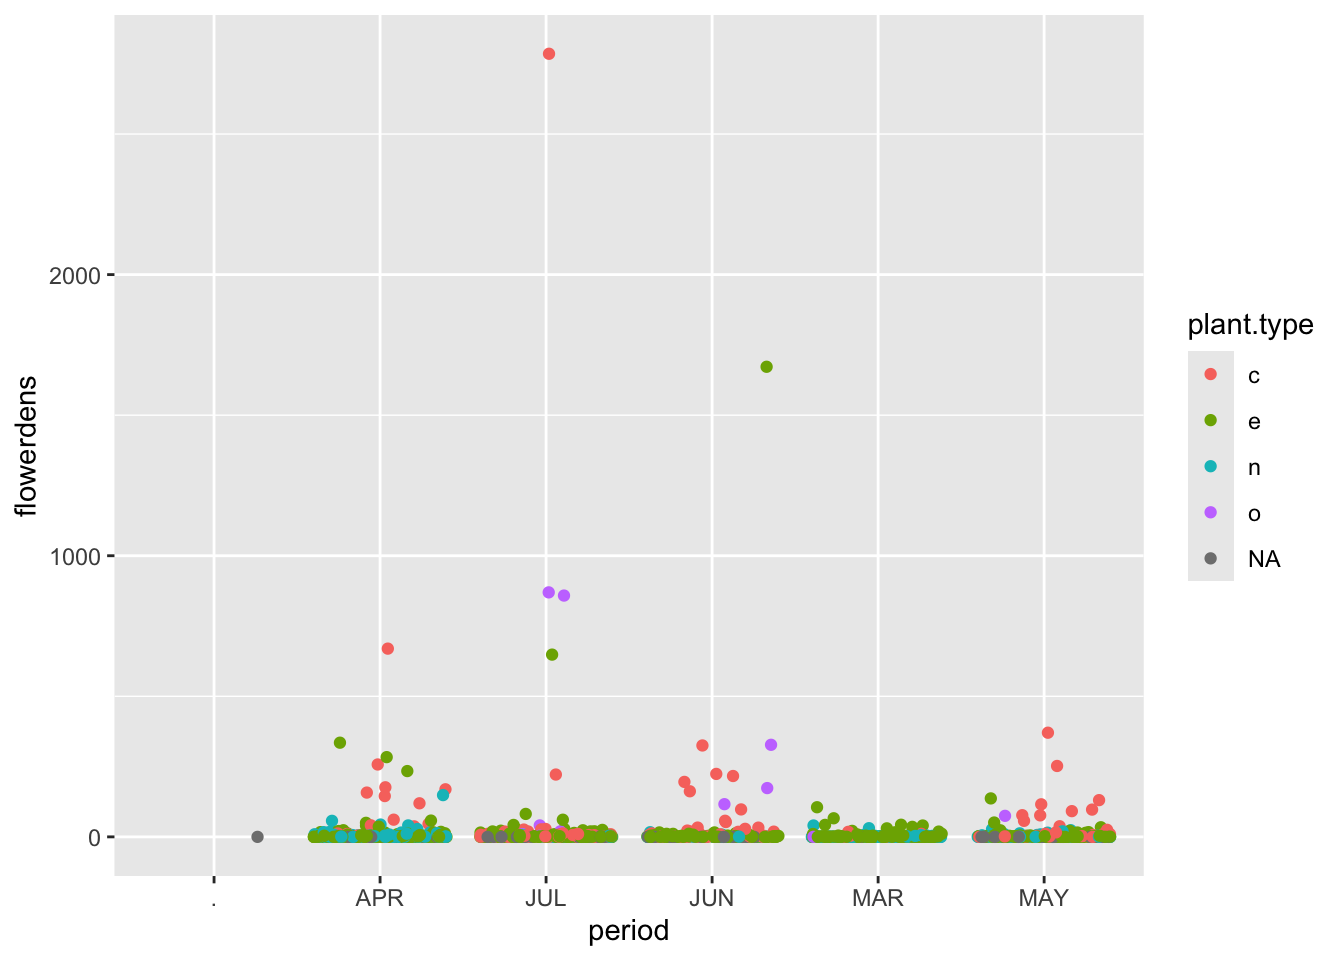
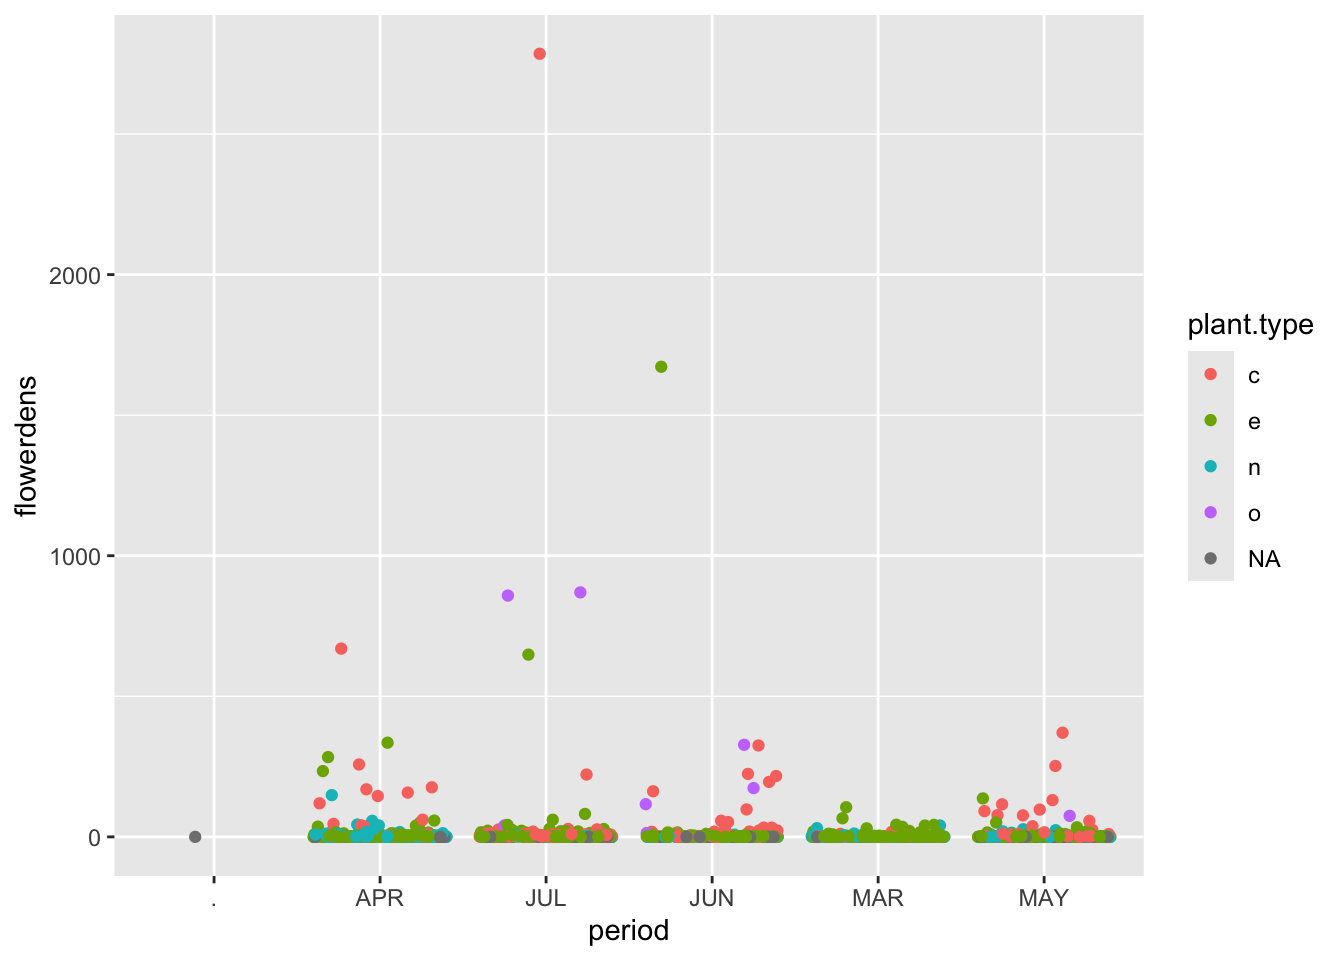
add continuity to the menu

diff --git a/docs/firstlook.html b/docs/firstlook.html
@@ -142,6 +142,10 @@ pre > code.sourceCode > span > a:first-child::before { text-decoration: underlin
     <a class="nav-link" href="./project-flowers.html"> 
 <span class="menu-text">Landscape projection</span></a>
   </li>  
+  <li class="nav-item">
+    <a class="nav-link" href="./continuity.html"> 
+<span class="menu-text">Continuity</span></a>
+  </li>  
 </ul>
           </div> <!-- /navcollapse -->
             <div class="quarto-navbar-tools">

diff --git a/docs/continuity.html b/docs/continuity.html
@@ -107,6 +107,10 @@ ul.task-list li input[type="checkbox"] {
     <a class="nav-link" href="./project-flowers.html"> 
 <span class="menu-text">Landscape projection</span></a>
   </li>  
+  <li class="nav-item">
+    <a class="nav-link active" href="./continuity.html" aria-current="page"> 
+<span class="menu-text">Continuity</span></a>
+  </li>  
 </ul>
           </div> <!-- /navcollapse -->
             <div class="quarto-navbar-tools">

diff --git a/docs/project-flowers.html b/docs/project-flowers.html
@@ -107,6 +107,10 @@ ul.task-list li input[type="checkbox"] {
     <a class="nav-link active" href="./project-flowers.html" aria-current="page"> 
 <span class="menu-text">Landscape projection</span></a>
   </li>  
+  <li class="nav-item">
+    <a class="nav-link" href="./continuity.html"> 
+<span class="menu-text">Continuity</span></a>
+  </li>  
 </ul>
           </div> <!-- /navcollapse -->
             <div class="quarto-navbar-tools">

diff --git a/docs/index.html b/docs/index.html
@@ -107,6 +107,10 @@ ul.task-list li input[type="checkbox"] {
     <a class="nav-link" href="./project-flowers.html"> 
 <span class="menu-text">Landscape projection</span></a>
   </li>  
+  <li class="nav-item">
+    <a class="nav-link" href="./continuity.html"> 
+<span class="menu-text">Continuity</span></a>
+  </li>  
 </ul>
           </div> <!-- /navcollapse -->
             <div class="quarto-navbar-tools">
